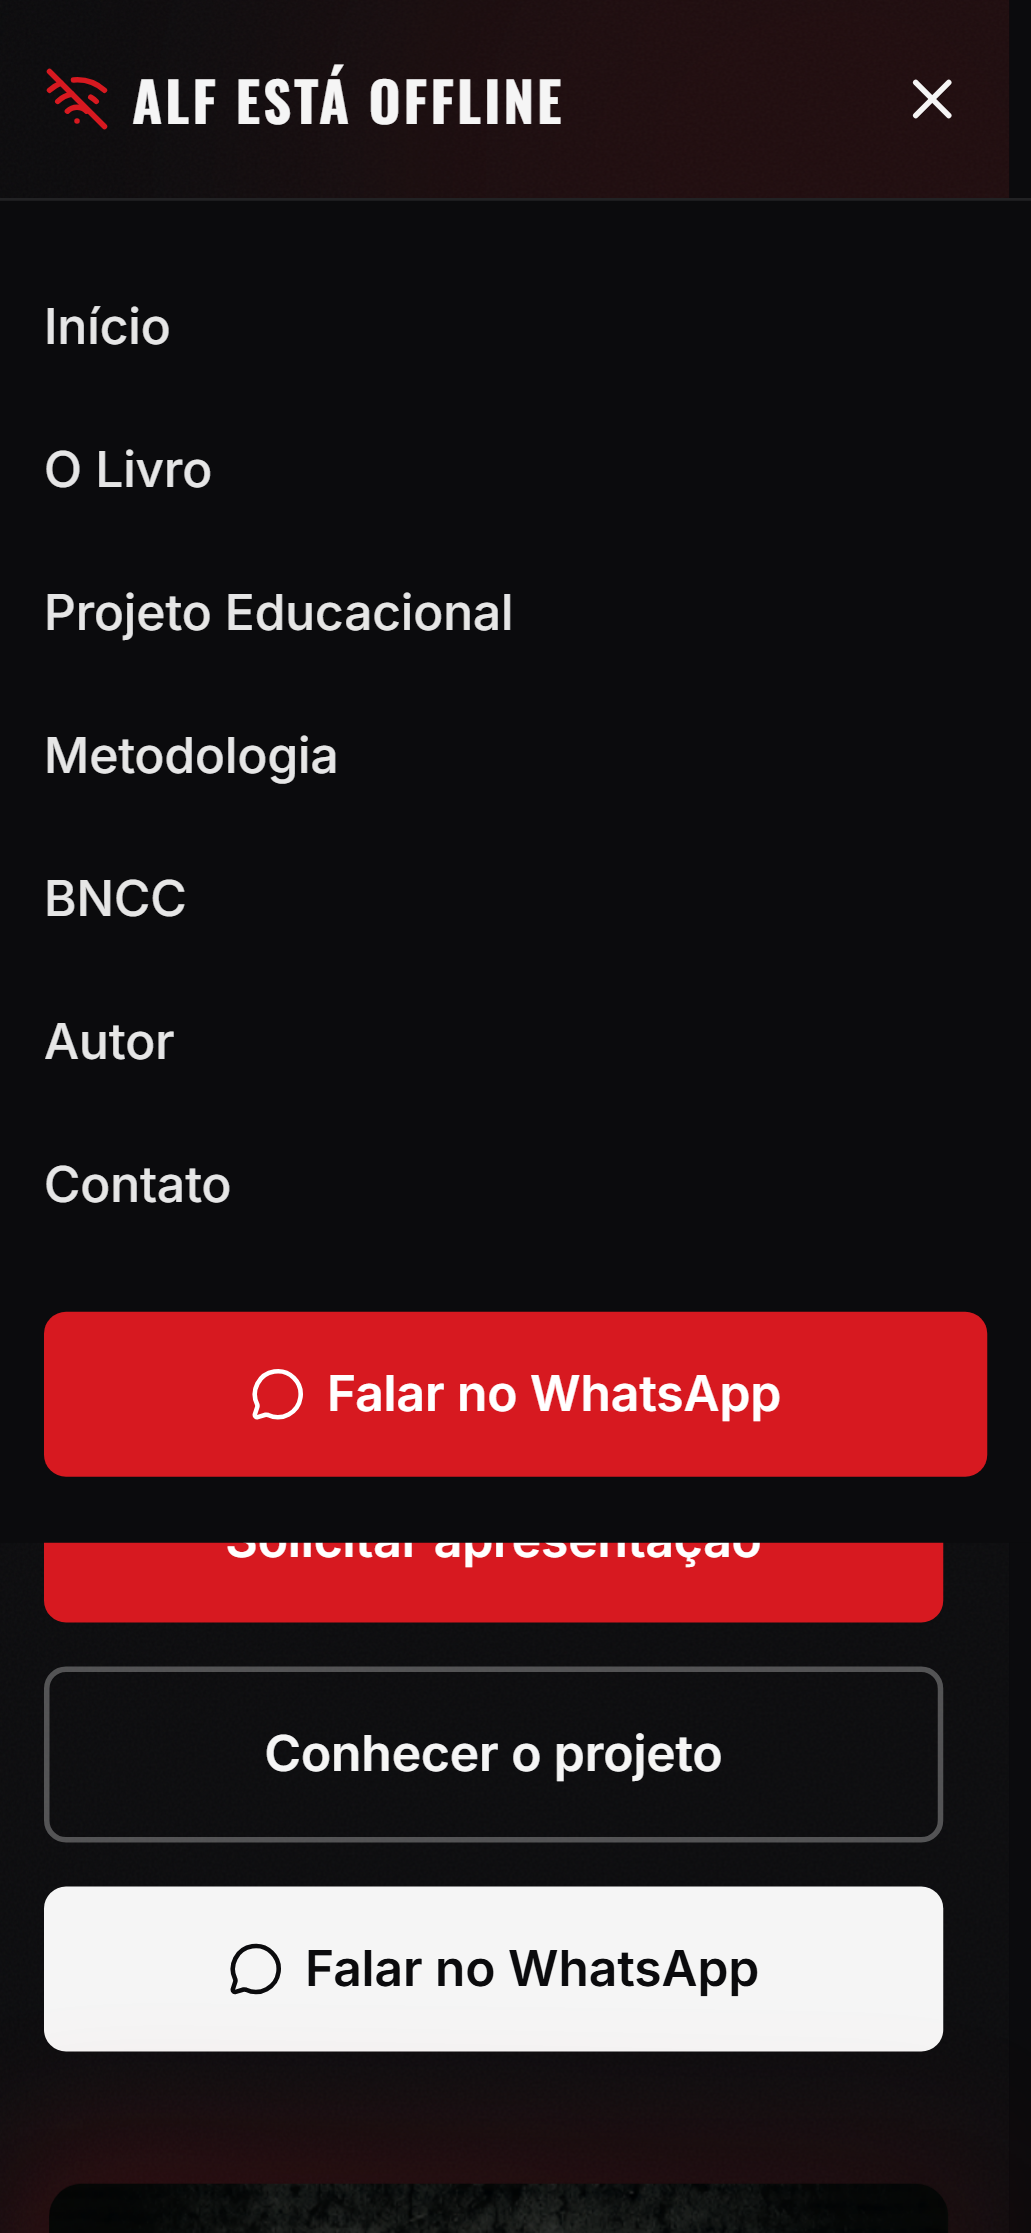
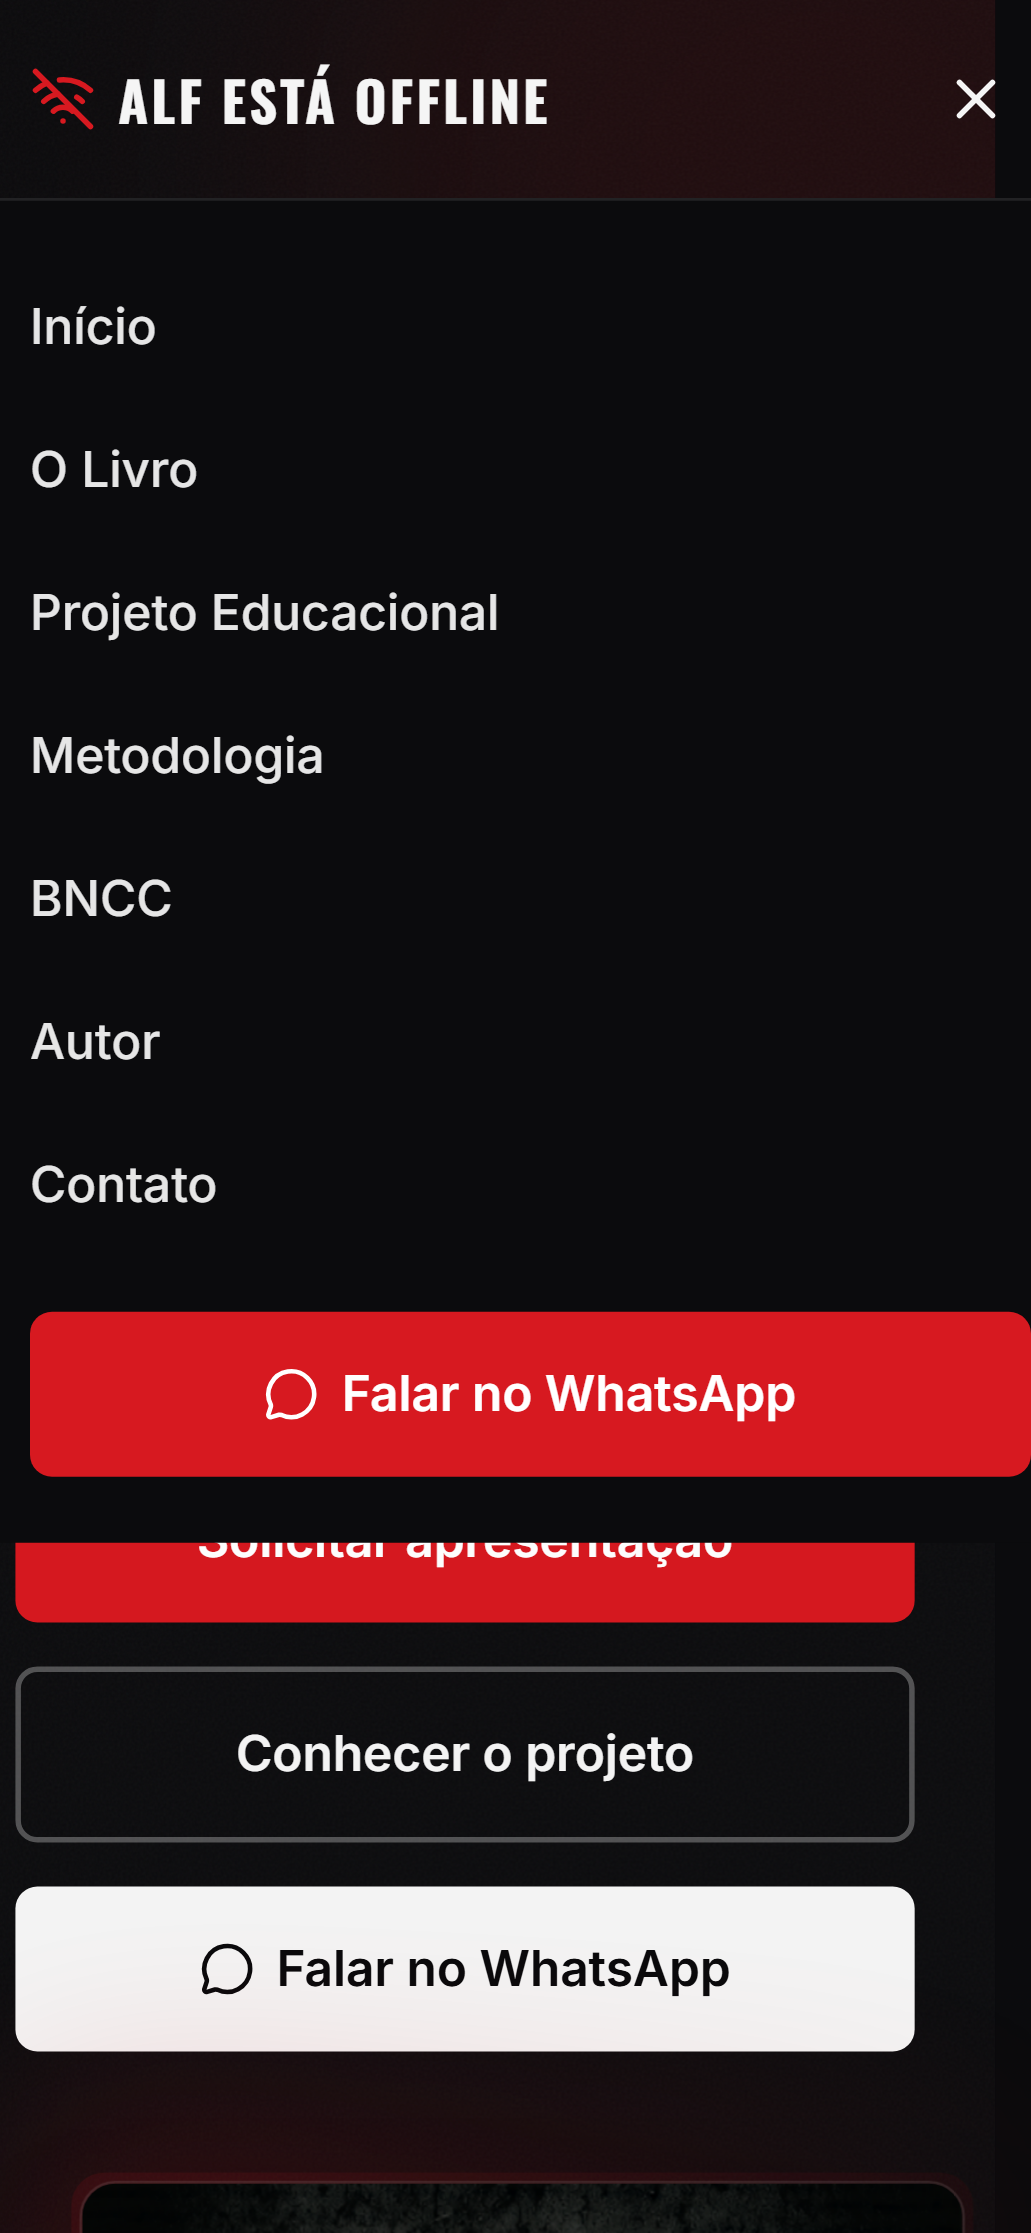
fix: corrige caminhos e importação das imagens
- Move Imagem1.png (capa) e Imagem2.jpg (autor) para public/images/
- Atualiza referências em Hero, BookSection e AuthorSection
- Melhora proporção, enquadramento e tratamento visual das imagens
- Adiciona testes para validar carregamento das imagens

diff --git a/tests/home.spec.ts b/tests/home.spec.ts
@@ -64,6 +64,46 @@ test.describe('ALF Está Offline - Home', () => {
     }
   });
 
+  test('deve carregar as imagens principais sem erros', async ({ page, isMobile }) => {
+    const failedImages: string[] = [];
+
+    page.on('console', (msg) => {
+      const text = msg.text();
+      if (text.includes('capa-livro') || text.includes('autor.jpg')) {
+        failedImages.push(text);
+      }
+    });
+
+    page.on('response', (response) => {
+      const url = response.url();
+      if ((url.includes('capa-livro') || url.includes('autor.jpg')) && !response.ok()) {
+        failedImages.push(`${url}: ${response.status()}`);
+      }
+    });
+
+    await page.goto('/');
+    await page.waitForLoadState('networkidle');
+
+    const heroImage = page.locator('#inicio img[alt*="Capa do livro"]').first();
+    await expect(heroImage).toBeVisible();
+
+    const bookImage = page.locator('#livro img[alt*="Capa do livro"]').first();
+    await expect(bookImage).toBeVisible();
+
+    if (isMobile) {
+      await page.locator('button[aria-label="Abrir menu"]').click();
+      await page.locator('[data-testid="mobile-menu"] nav a[href="#autor"]').first().click();
+    } else {
+      await page.locator('header nav a[href="#autor"]').first().click();
+    }
+    await page.waitForTimeout(300);
+
+    const authorImage = page.locator('#autor img[alt*="Fabrício Lopes"]').first();
+    await expect(authorImage).toBeVisible();
+
+    expect(failedImages).toHaveLength(0);
+  });
+
   test('não deve apresentar erros críticos no console', async ({ page }) => {
     const errors: string[] = [];
 

diff --git a/src/components/AuthorSection.tsx b/src/components/AuthorSection.tsx
@@ -13,18 +13,21 @@ export function AuthorSection() {
           whileInView={{ opacity: 1, x: 0 }}
           viewport={{ once: true }}
           transition={{ duration: 0.7 }}
-          className="mx-auto max-w-sm lg:max-w-md"
+          className="mx-auto w-full max-w-xs sm:max-w-sm lg:max-w-md"
         >
           <div className="relative">
-            <div className="absolute -inset-4 rounded-2xl bg-gradient-to-tr from-alf-red/20 to-transparent blur-xl" />
-            <img
-              src="/autor.jpg"
-              alt={`Foto de ${AUTHOR.name}`}
-              className="relative rounded-xl object-cover shadow-2xl shadow-black/40"
-              width={520}
-              height={520}
-              loading="lazy"
-            />
+            <div className="absolute -inset-4 rounded-full bg-gradient-to-tr from-alf-red/20 to-transparent blur-xl" />
+            <div className="relative aspect-square overflow-hidden rounded-2xl bg-alf-black shadow-2xl shadow-black/40 ring-1 ring-alf-white/10">
+              <img
+                src="/images/autor.jpg"
+                alt={`Foto de ${AUTHOR.name}`}
+                className="h-full w-full object-cover object-top"
+                width={520}
+                height={520}
+                loading="lazy"
+                decoding="async"
+              />
+            </div>
           </div>
         </motion.div>
 

diff --git a/src/components/BookSection.tsx b/src/components/BookSection.tsx
@@ -9,21 +9,22 @@ export function BookSection() {
     <Section id="livro" variant="black">
       <div className="grid items-center gap-12 lg:grid-cols-2 lg:gap-16">
         <motion.div
-          initial={{ opacity: 0.95, scale: 0.95 }}
+          initial={{ opacity: 0.95, scale: 0.98 }}
           whileInView={{ opacity: 1, scale: 1 }}
           viewport={{ once: true }}
           transition={{ duration: 0.7 }}
-          className="order-2 mx-auto max-w-sm lg:order-1 lg:max-w-md"
+          className="order-2 mx-auto w-full max-w-xs sm:max-w-sm lg:order-1 lg:max-w-md"
         >
-          <div className="relative">
-            <div className="absolute -inset-6 rounded-full bg-alf-red/5 blur-3xl" />
+          <div className="relative rounded-xl bg-gradient-to-br from-alf-white/5 to-transparent p-3 ring-1 ring-alf-white/10">
+            <div className="absolute -inset-4 rounded-full bg-alf-red/5 blur-3xl" />
             <img
-              src="/capa-livro.png"
+              src="/images/capa-livro.png"
               alt="Capa do livro ALF Está Offline"
-              className="relative rounded-xl shadow-2xl shadow-black/40"
-              width={520}
-              height={780}
+              className="relative h-auto w-full rounded-lg object-cover shadow-2xl shadow-black/50"
+              width={600}
+              height={900}
               loading="lazy"
+              decoding="async"
             />
           </div>
         </motion.div>

diff --git a/src/components/Hero.tsx b/src/components/Hero.tsx
@@ -62,17 +62,19 @@ export function Hero() {
             initial={{ opacity: 0.95, x: 40 }}
             animate={{ opacity: 1, x: 0 }}
             transition={{ duration: 0.8, delay: 0.2 }}
-            className="relative mx-auto max-w-sm lg:max-w-md"
+            className="relative mx-auto w-full max-w-xs sm:max-w-sm lg:max-w-md"
           >
             <div className="relative">
-              <div className="absolute -inset-4 rounded-2xl bg-gradient-to-br from-alf-red/20 to-transparent blur-xl" />
+              <div className="absolute -inset-6 rounded-3xl bg-gradient-to-br from-alf-red/25 via-alf-red/5 to-transparent blur-2xl" />
+              <div className="absolute -inset-1 rounded-xl bg-gradient-to-br from-alf-red/20 to-transparent opacity-60" />
               <img
-                src="/capa-livro.png"
+                src="/images/capa-livro.png"
                 alt="Capa do livro ALF Está Offline, de Fabrício Lopes"
-                className="relative rounded-xl shadow-2xl shadow-black/50"
-                width={520}
-                height={780}
+                className="relative h-auto w-full rounded-xl object-cover shadow-2xl shadow-black/60 ring-1 ring-alf-white/10"
+                width={600}
+                height={900}
                 loading="eager"
+                decoding="async"
               />
             </div>
           </motion.div>

diff --git a/playwright-report/index.html b/playwright-report/index.html
@@ -87,4 +87,4 @@ Error generating stack: `+l.message+`
     <div id='root'></div>
   </body>
 </html>
[2 lines of base64/hex data omitted]